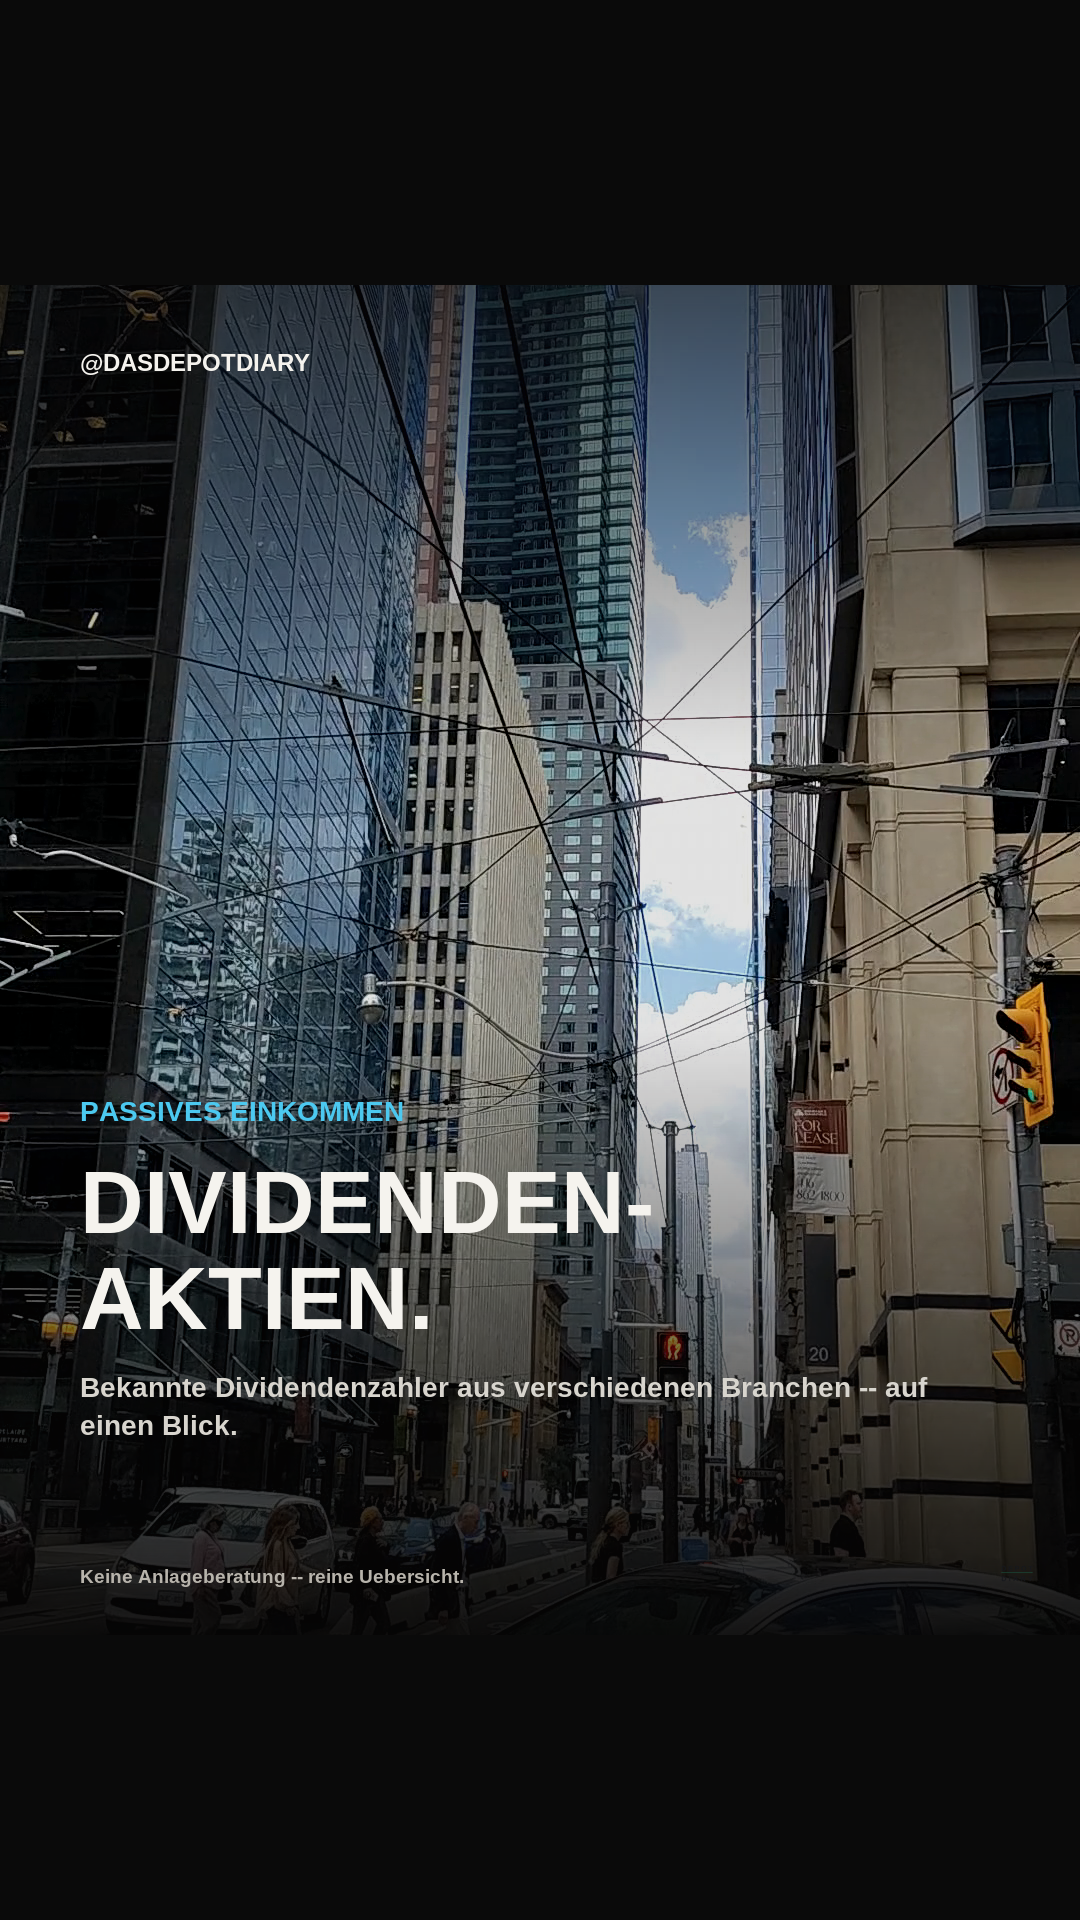
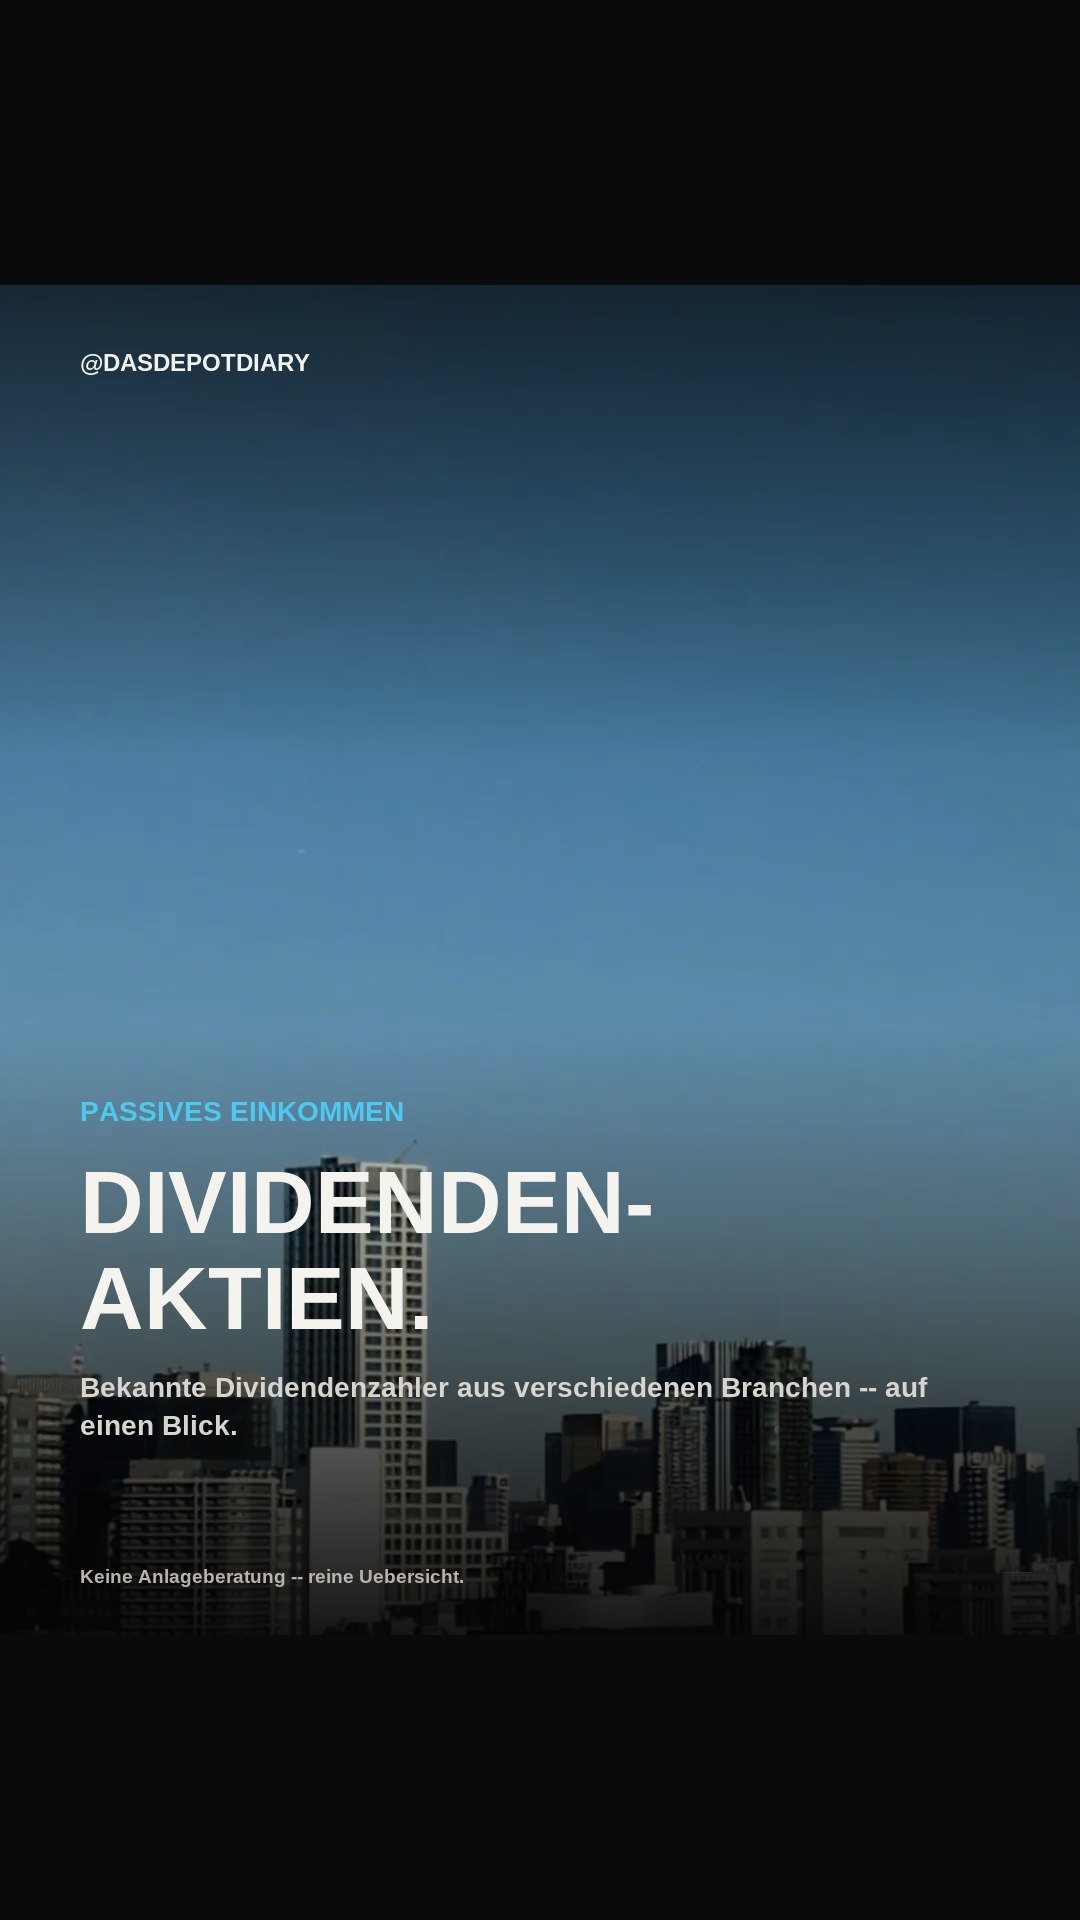
Foto-Rotation fuer Finanzhafen-Style-Titelfolien: 2 neue starke Motive (Charging-Bull-Statue, NYSE-Fassade mit Flagge, beide via Pexels) zum bisherigen Pool dazu, deterministisch per md5(post_name) durchrotiert statt immer dasselbe Bild (Nutzerwunsch: 'probier andere Bilder, sehr sehr stark' + 'roti

diff --git a/posts/format_wochenlogos.py b/posts/format_wochenlogos.py
@@ -51,6 +51,26 @@ OWN_HANDLE = "@DASDEPOTDIARY"
 WORDMARK = ROOT / "assets" / "logo_depotdiary_stacked_transparent.png"
 HOOK_PHOTO = ROOT / "assets" / "downtown_street_still.png"
 
+# Rotierender Pool starker, dramatischer Foto-Hintergruende fuer die
+# Titelfolie -- Nutzerwunsch: "probier andere Bilder, aber sehr sehr stark"
+# + "rotier die immer durch". Deterministisch nach Post-Name gewaehlt (nicht
+# zufaellig), damit derselbe Post beim Neu-Rendern immer gleich aussieht.
+HOOK_PHOTOS = [
+    ROOT / "assets" / "wallstreet_bull_still.jpg",
+    ROOT / "assets" / "nyse_flag_still.jpg",
+    ROOT / "assets" / "downtown_street_still.png",
+    ROOT / "assets" / "skyline_day_still.png",
+]
+
+
+def photo_for(name):
+    # Python randomisiert hash() fuer Strings pro Prozess (PYTHONHASHSEED) --
+    # fuer eine wirklich stabile Zuordnung ueber mehrere Läufe hinweg + gute
+    # Streuung ueber den Foto-Pool wird stattdessen md5 verwendet.
+    import hashlib
+    digest = hashlib.md5(name.encode("utf-8")).hexdigest()
+    return HOOK_PHOTOS[int(digest, 16) % len(HOOK_PHOTOS)]
+
 
 def font(path, size):
     return ImageFont.truetype(path, size)
@@ -133,8 +153,8 @@ def hook_photo_background(photo_path=HOOK_PHOTO):
     return img
 
 
-def slide_hook(week_label, n_stocks, label="DIESE WOCHE", headline_lines=None, sub_text=None):
-    img = hook_photo_background()
+def slide_hook(week_label, n_stocks, label="DIESE WOCHE", headline_lines=None, sub_text=None, photo_path=HOOK_PHOTO):
+    img = hook_photo_background(photo_path)
     draw = ImageDraw.Draw(img)
 
     handle_font = font(B.SANS_BOLD, 24)
@@ -332,7 +352,8 @@ def build(name, week_label, stocks, hook_label="DIESE WOCHE", headline_lines=Non
     output, ig_dir, tt_dir = paths_for(name)
 
     slides = [slide_hook(week_label, len(stocks), label=hook_label,
-                          headline_lines=headline_lines, sub_text=sub_text)]
+                          headline_lines=headline_lines, sub_text=sub_text,
+                          photo_path=photo_for(name))]
     per_page = 9 if layout == "circles" else 8
     grid_fn = draw_logo_grid_slide if layout == "circles" else draw_info_grid_slide
     pages = [stocks[i:i + per_page] for i in range(0, len(stocks), per_page)]
